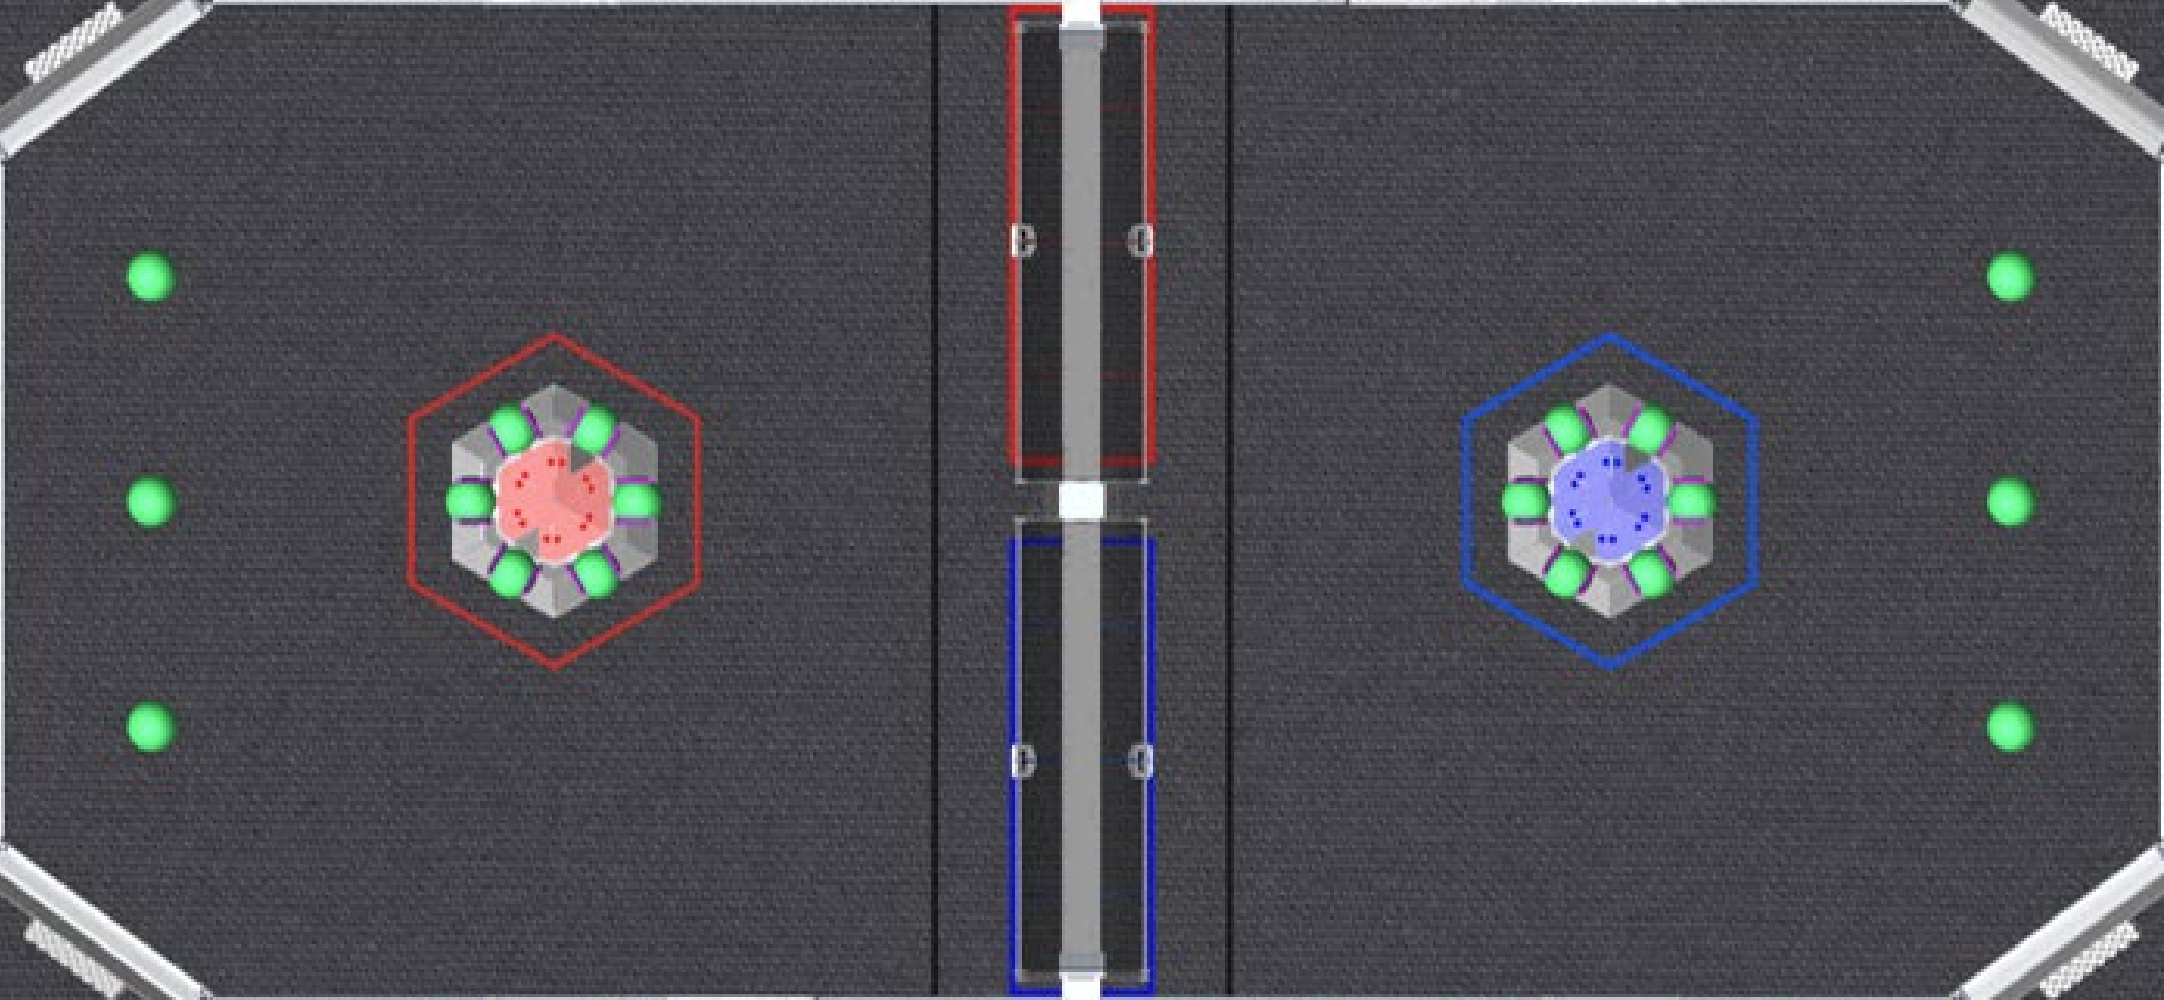
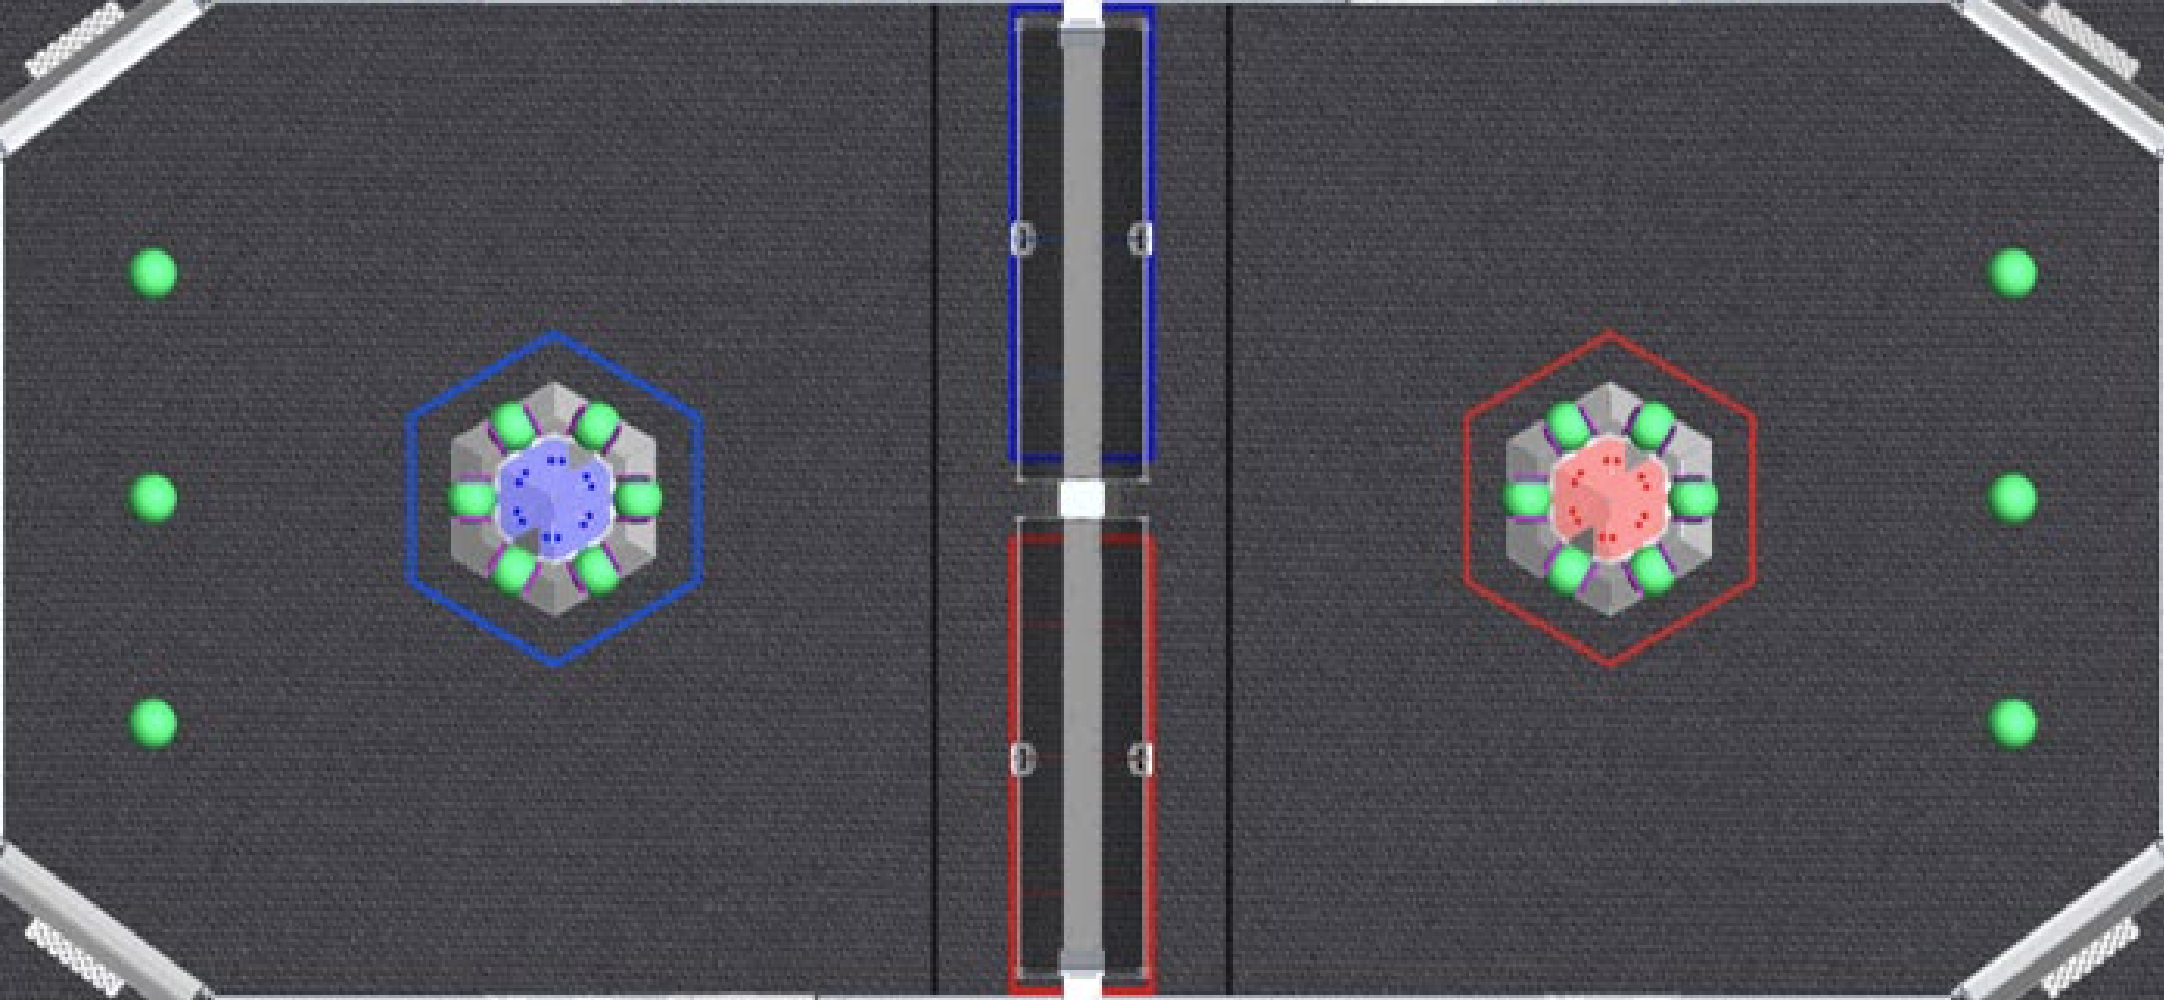
done

diff --git a/src/AIScout.java b/src/AIScout.java
@@ -16,6 +16,7 @@ import javax.swing.JFrame;
 import java.awt.Graphics;
 import java.awt.BasicStroke;
 import java.awt.Color;
+import java.awt.Font;
 import java.awt.Graphics2D;
 
 import java.util.Optional;
@@ -38,6 +39,7 @@ public class AIScout extends JPanel{
     private static final Point BOTTOM_LEFT = new Point(0.02259, 0.69198);
     private static final Point TOP_RIGHT = new Point(0.84483, 0.21941);
     private static final Point BOTTOM_RIGHT = new Point(0.98811, 0.72152);
+    protected static final boolean RED_ON_LEFT = true; // Whether the red alliance is on the left side of the field in the video. If false, then the blue alliance is on the left.
 
     public AIScout() {
         //Empty constructor for JPanel subclass
@@ -62,13 +64,13 @@ public class AIScout extends JPanel{
         frame.setIconImage(ImageIO.read(new File("pop.png")));
         frame.add(confirm);
         frame.setVisible(true);
-        System.out.println("Is field properly aligned in the window that just opened? (y/n)");
+        System.out.println("Is field properly aligned and the alliances consistent in the window that just opened? (y/n)");
 
         Scanner scanner = new Scanner(System.in);
         if (!scanner.nextLine().equalsIgnoreCase("y")) {
             scanner.close();
             frame.dispose();
-            throw new IllegalStateException("Field not properly aligned. Please adjust TOP_LEFT, BOTTOM_LEFT, TOP_RIGHT, and BOTTOM_RIGHT so that the green lines are exactly on the field boundaries, then try again.");
+            throw new IllegalStateException("Field not properly aligned. Please adjust TOP_LEFT, BOTTOM_LEFT, TOP_RIGHT, BOTTOM_RIGHT, and RED_ON_LEFT so that the green lines are exactly on the field boundaries and the alliances match, then try again.");
         }
         frame.dispose();
         
@@ -77,15 +79,15 @@ public class AIScout extends JPanel{
         int firstFrameIndex = 0;
 
         int amountShows = 0;
-        int redShows = 0;
-        int blueShows = 0;
+        int leftShows = 0;
+        int rightShows = 0;
         for (int i = 0; i < args.length; i++) {
             if (!args[i].equals("no_show")) {
                 amountShows++;
                 if (i < 3) {
-                    redShows++;
+                    leftShows++;
                 } else {
-                    blueShows++;
+                    rightShows++;
                 }
             }
         }
@@ -124,11 +126,11 @@ public class AIScout extends JPanel{
         String[] firstHalf = Arrays.copyOfRange(args, 0, 3);
         String[] secondHalf = Arrays.copyOfRange(args, 3, args.length);
 
-        List<Optional<Point>> leftHalf = startingDetections.subList(0, redShows);
+        List<Optional<Point>> leftHalf = startingDetections.subList(0, leftShows);
 
         leftHalf.sort(Comparator.comparing(Optional::get, Comparator.comparing(Point::getY).reversed()));
 
-        List<Optional<Point>> rightHalf = startingDetections.subList(redShows, redShows + blueShows);
+        List<Optional<Point>> rightHalf = startingDetections.subList(leftShows, leftShows + rightShows);
         rightHalf.sort(Comparator.comparing(Optional::get, Comparator.comparing(Point::getY).reversed()));
 
         int pointIndex = 0;
@@ -371,6 +373,18 @@ public class AIScout extends JPanel{
         g2d.drawLine((int) (BOTTOM_LEFT.getX() * Visualization.WIDTH/2), (int) (BOTTOM_LEFT.getY() * Visualization.HEIGHT/2), (int) (BOTTOM_RIGHT.getX() * Visualization.WIDTH/2), (int) (BOTTOM_RIGHT.getY() * Visualization.HEIGHT/2));
         g2d.drawLine((int) (TOP_RIGHT.getX() * Visualization.WIDTH/2), (int) (TOP_RIGHT.getY() * Visualization.HEIGHT/2), (int) (BOTTOM_RIGHT.getX() * Visualization.WIDTH/2), (int) (BOTTOM_RIGHT.getY() * Visualization.HEIGHT/2));
         
+        g.setFont(new Font(Font.SANS_SERIF, Font.BOLD, 23));
+        if (RED_ON_LEFT) {
+            g.setColor(Color.RED);
+            g.drawString("Red Alliance Side", (int)(Visualization.WIDTH/16), (int) (Visualization.HEIGHT/4));
+            g.setColor(Color.BLUE);
+            g.drawString("Blue Alliance Side", (int)(Visualization.WIDTH/4 + Visualization.WIDTH/16), (int) (Visualization.HEIGHT/4));
+        } else {
+            g.setColor(Color.BLUE);
+            g.drawString("Blue Alliance Side", (int)(Visualization.WIDTH/16), (int) (Visualization.HEIGHT/4));
+            g.setColor(Color.RED);
+            g.drawString("Red Alliance Side", (int)(Visualization.WIDTH/4 + Visualization.WIDTH/16), (int) (Visualization.HEIGHT/4));
+        }
         g.dispose();
         g2d.dispose();
     }

diff --git a/src/Visualization.java b/src/Visualization.java
@@ -139,23 +139,19 @@ public class Visualization extends JPanel {
             Optional<Boolean> isAuto = states.get(i);
 
             if (point.isPresent() && isAuto.isPresent() && prevPoint.isPresent() && prevIsAuto.isPresent()) {
+                int x1 = (int) (prevPoint.get().getX() * WIDTH);
+                int y1 = (int) (prevPoint.get().getY() * HEIGHT);
+                int x2 = (int) (point.get().getX() * WIDTH);
+                int y2 = (int) (point.get().getY() * HEIGHT);
                 if (isAuto.get() && prevIsAuto.get()) {
                     g.setColor(Color.PINK);
                     if (auto) {
-                        int x1 = (int) ((1-prevPoint.get().getX()) * WIDTH);
-                        int y1 = (int) ((1-prevPoint.get().getY()) * HEIGHT);
-                        int x2 = (int) ((1-point.get().getX()) * WIDTH);
-                        int y2 = (int) ((1-point.get().getY()) * HEIGHT);
                         g2d.setPaint(new GradientPaint(x1, y1, Color.PINK, x2, y2, Color.RED, false));
                         g2d.drawLine(x1, y1, x2, y2);
                     }
                 } else if (!isAuto.get() && !prevIsAuto.get()) {
                     g.setColor(Color.CYAN);
                     if (tele) {
-                        int x1 = (int) ((1-prevPoint.get().getX()) * WIDTH);
-                        int y1 = (int) ((1-prevPoint.get().getY()) * HEIGHT);
-                        int x2 = (int) ((1-point.get().getX()) * WIDTH);
-                        int y2 = (int) ((1-point.get().getY()) * HEIGHT);
                         g2d.setPaint(new GradientPaint(x1, y1, Color.CYAN, x2, y2, Color.BLUE, false));
                         g2d.drawLine(x1, y1, x2, y2);
                     }

diff --git a/src/FRCRobot.java b/src/FRCRobot.java
@@ -18,7 +18,11 @@ public class FRCRobot {
     
     public void updatePosition(Point pos, boolean isAuto){//isAuto is true for auto, false for teleop
         this.pos = pos;
-        positionHistory.add(isAuto + "," + pos.getX() + "," + pos.getY());
+        if (AIScout.RED_ON_LEFT) {
+            positionHistory.add(isAuto + "," + (1-pos.getX()) + "," + (1-pos.getY())); // Invert x and y coordinates to match visualization orientation (if red is on the left, we want to flip the coordinates to match the visualization's orientation)
+        } else {
+            positionHistory.add(isAuto + "," + pos.getX() + "," + pos.getY());
+        }
     }
     
     public void writeData(){ 

diff --git a/README.md b/README.md
@@ -40,7 +40,7 @@ chmod +x setup.bat
 pip install -r requirements.txt
 ```
 
-7. Calibrate the field! Inside src/AIScout.java, modify the constants TOP_LEFT, TOP_RIGHT, BOTTOM_LEFT, and BOTTOM_RIGHT to match with the **relative coordinates** of the corners of the game field. For example:
+7. Calibrate the field! Inside src/AIScout.java, modify the constants TOP_LEFT, TOP_RIGHT, BOTTOM_LEFT, BOTTOM_RIGHT, and RED_ON_LEFT to match with the **relative coordinates** of the corners and orientation of the game field. For example:
 
 <image src="samples/fieldCalibration.png" width="500" controls></image>
 
@@ -78,4 +78,4 @@ chmod +x run.sh
 
 9. *Some AI assistance is used in this project.*
 
-# Good Luck With Scouting!
+# See You at Worlds!
